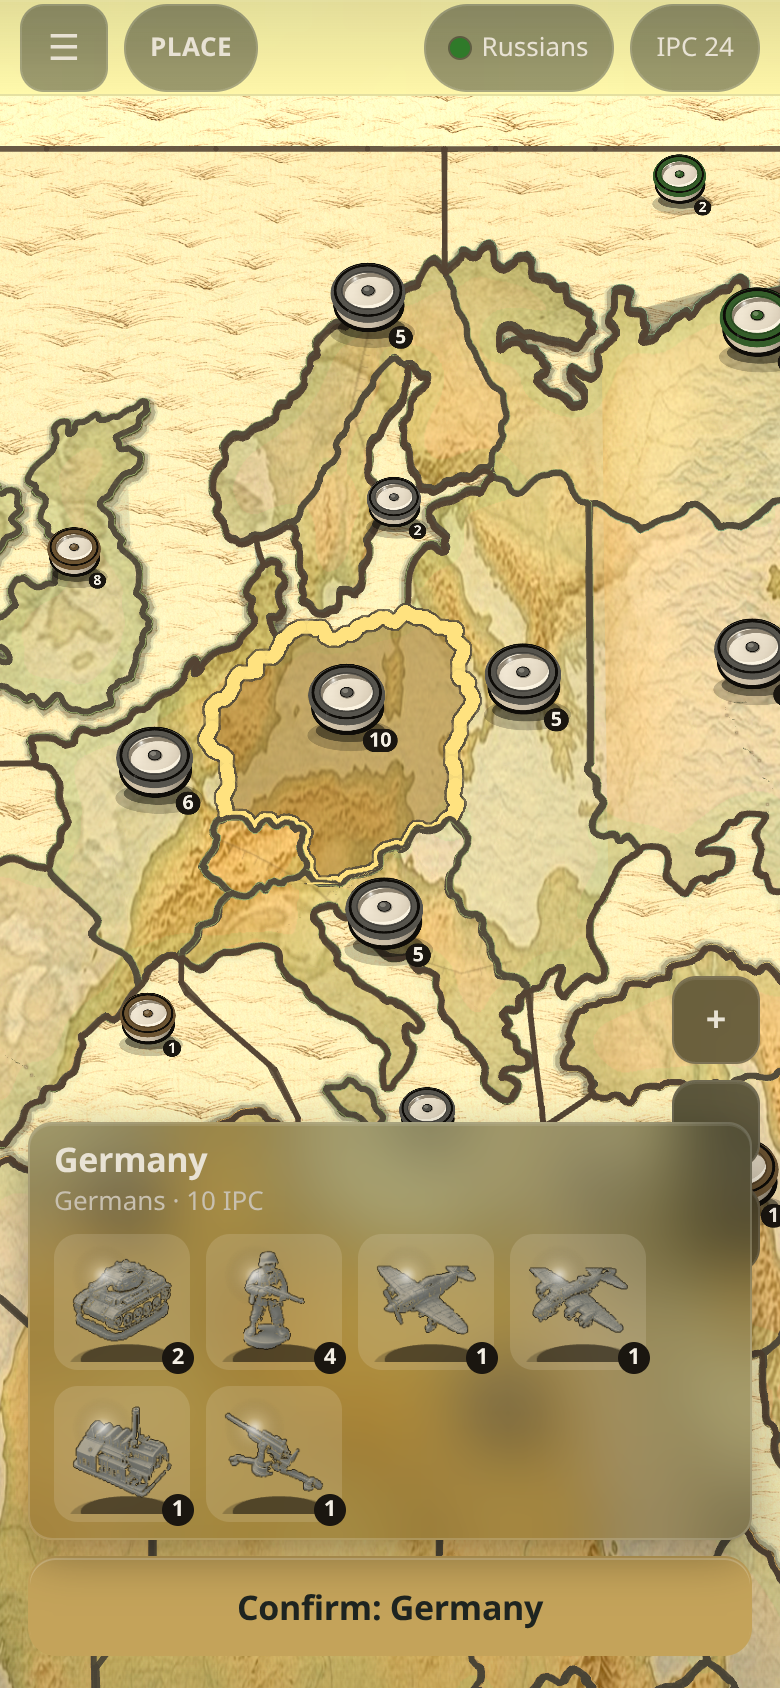
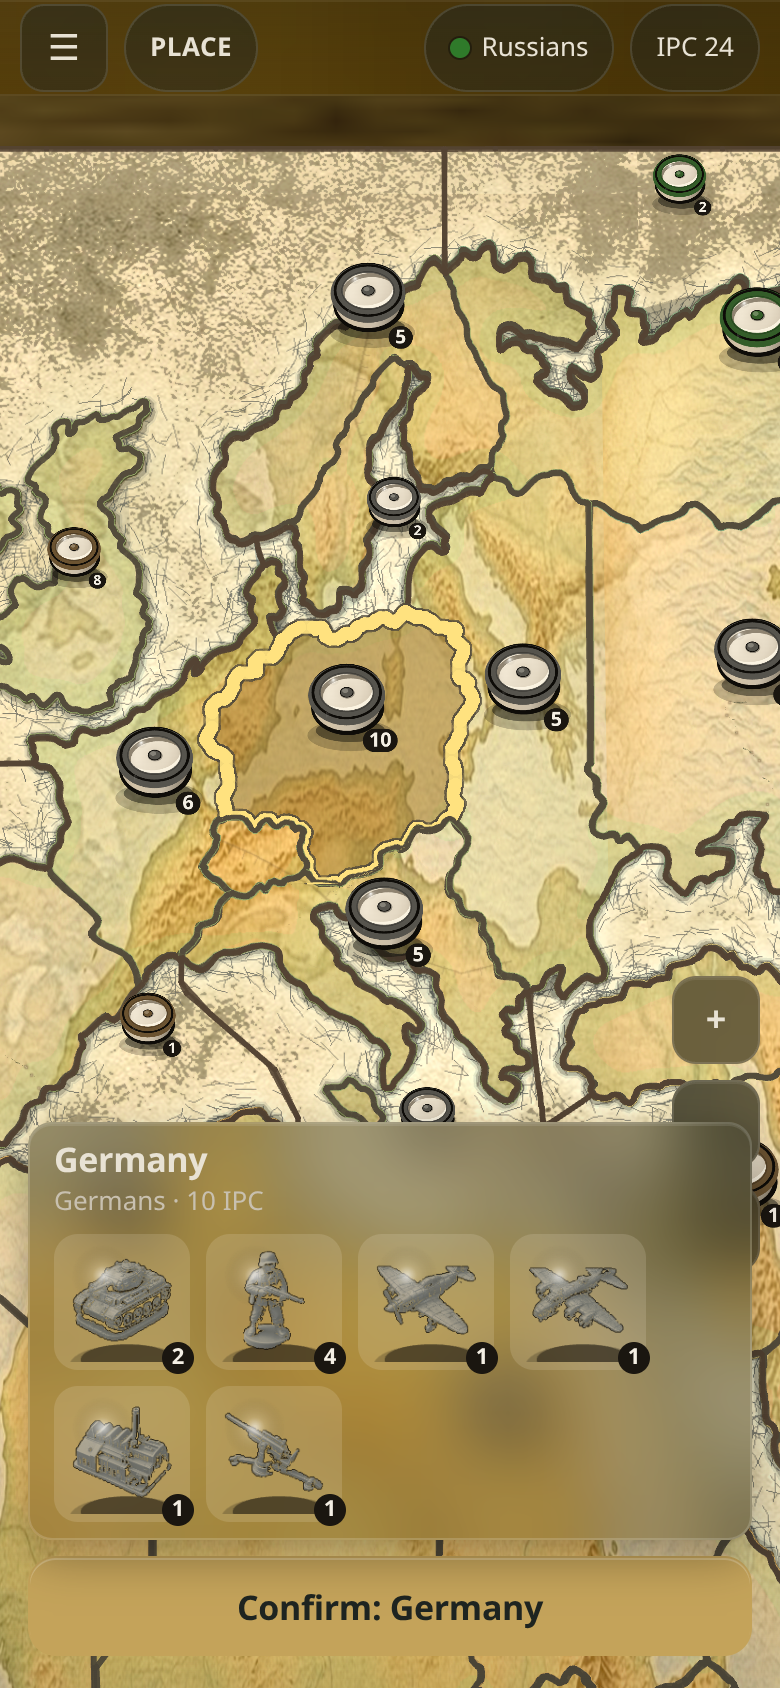
V2.81.52-three-polish.39: punch sea ink + parchment surround
Keep p39b world-sea bind. Darken coastal stroke texels so they read at
390. Surround plane is quiet parchment, not a brown void or hatch tile.

diff --git a/src/map/threeMapPalette.js b/src/map/threeMapPalette.js
@@ -534,16 +534,16 @@ export function makeLandMaterials(regionHex, ownerHex, territory) {
 }
 
 export function makeOceanMaterial() {
-  // P39b: surround plane is parchment only — never a UV-tiled wave hatch.
+  // P39b: surround is quiet parchment sea — never a UV-tiled wave hatch.
   makePaperTexture();
   const mat = new THREE.MeshStandardMaterial({
     map: paperTex,
-    color: 0xd4cfc0,
+    color: 0xe8e2d4,
     roughness: 0.96,
     metalness: 0.0,
     envMapIntensity: 0,
-    emissive: 0x000000,
-    emissiveIntensity: 0,
+    emissive: 0xe4dcc8,
+    emissiveIntensity: 0.40,
     transparent: false,
     vertexColors: false,
   });
@@ -558,7 +558,7 @@ export function makeSeaWaterMaterial() {
   return new THREE.MeshStandardMaterial({
     // P39b: world-space coastal hand-ripples. Clamp atlas — no hatch tile.
     map: sea,
-    color: 0xffffff,
+    color: 0xeef2ee,
     transparent: false,
     opacity: 1,
     roughness: 0.94,
@@ -567,8 +567,8 @@ export function makeSeaWaterMaterial() {
     depthTest: true,
     side: THREE.DoubleSide,
     envMapIntensity: 0,
-    emissive: 0xffffff,
-    emissiveIntensity: worldSeaMap ? 0.36 : 0,
+    emissive: 0xf4f6f2,
+    emissiveIntensity: worldSeaMap ? 0.62 : 0,
     emissiveMap: worldSeaMap ? sea : null,
     vertexColors: false,
     polygonOffset: true,

diff --git a/tools/bake-world-land-albedo.py b/tools/bake-world-land-albedo.py
@@ -1075,10 +1075,26 @@ def bake_world_sea(lands) -> Image.Image:
         (1842, 1152, 2892, 2000), (0.0, 0.0, 1.0, 1.0),
         w, h, alpha=0.92, blur=18,
     )
-    img = punch(img, color=1.06, contrast=1.10, sharp=1.08)
+    img = punch(img, color=1.06, contrast=1.22, sharp=1.14)
+    img = _punch_sea_ink(img, sea)
     # Sea keeps coastal ripples; land/void stay quiet parchment.
     img = Image.composite(img, paper, sea)
     return img
+
+
+def _punch_sea_ink(img: Image.Image, sea: Image.Image) -> Image.Image:
+    """Darken stroke texels so they survive ACES at 390. Not a hatch."""
+    try:
+        import numpy as np
+    except ImportError:
+        return ImageEnhance.Contrast(img).enhance(1.12)
+    arr = np.asarray(img, dtype=np.float32)
+    m = (np.asarray(sea) > 8)
+    yv = arr[:, :, 0] * 0.2126 + arr[:, :, 1] * 0.7152 + arr[:, :, 2] * 0.0722
+    mean = float(yv[m].mean()) if m.any() else 180.0
+    ink = m & (yv < mean - 3.5)
+    arr[ink] = arr[ink] * 0.78
+    return Image.fromarray(np.clip(arr, 0, 255).astype('uint8'), 'RGB')
 
 
 def bake_ocean_wash():
